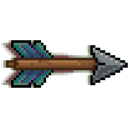
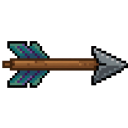
Arrow: new clean source plate, rekeyed live; close rekey-assets

Changed region(s): [[0.0, 0.3125, 1.0, 0.6875]]

diff --git a/design/tasks/README.md b/design/tasks/README.md
@@ -26,7 +26,6 @@ id | owner | status | title | needs
 hub-perf-fix | build | open | Hub perf fix — diagnose and clear sub-60 FPS on the bench | -
 ui-png-art | build | open | Generated PNG art for flat code-drawn UI | -
 attack-keyframes | web | open | Attack animation keyframes (parked pipeline) | -
-rekey-assets | bot | open | Rekey assets after the keying changes | -
 <!-- tasks:end -->
 
 Reference images that a task needs live in `design/refs/<task-id>/`, not in this folder. Tasks link them; checks ignore the refs folder.
